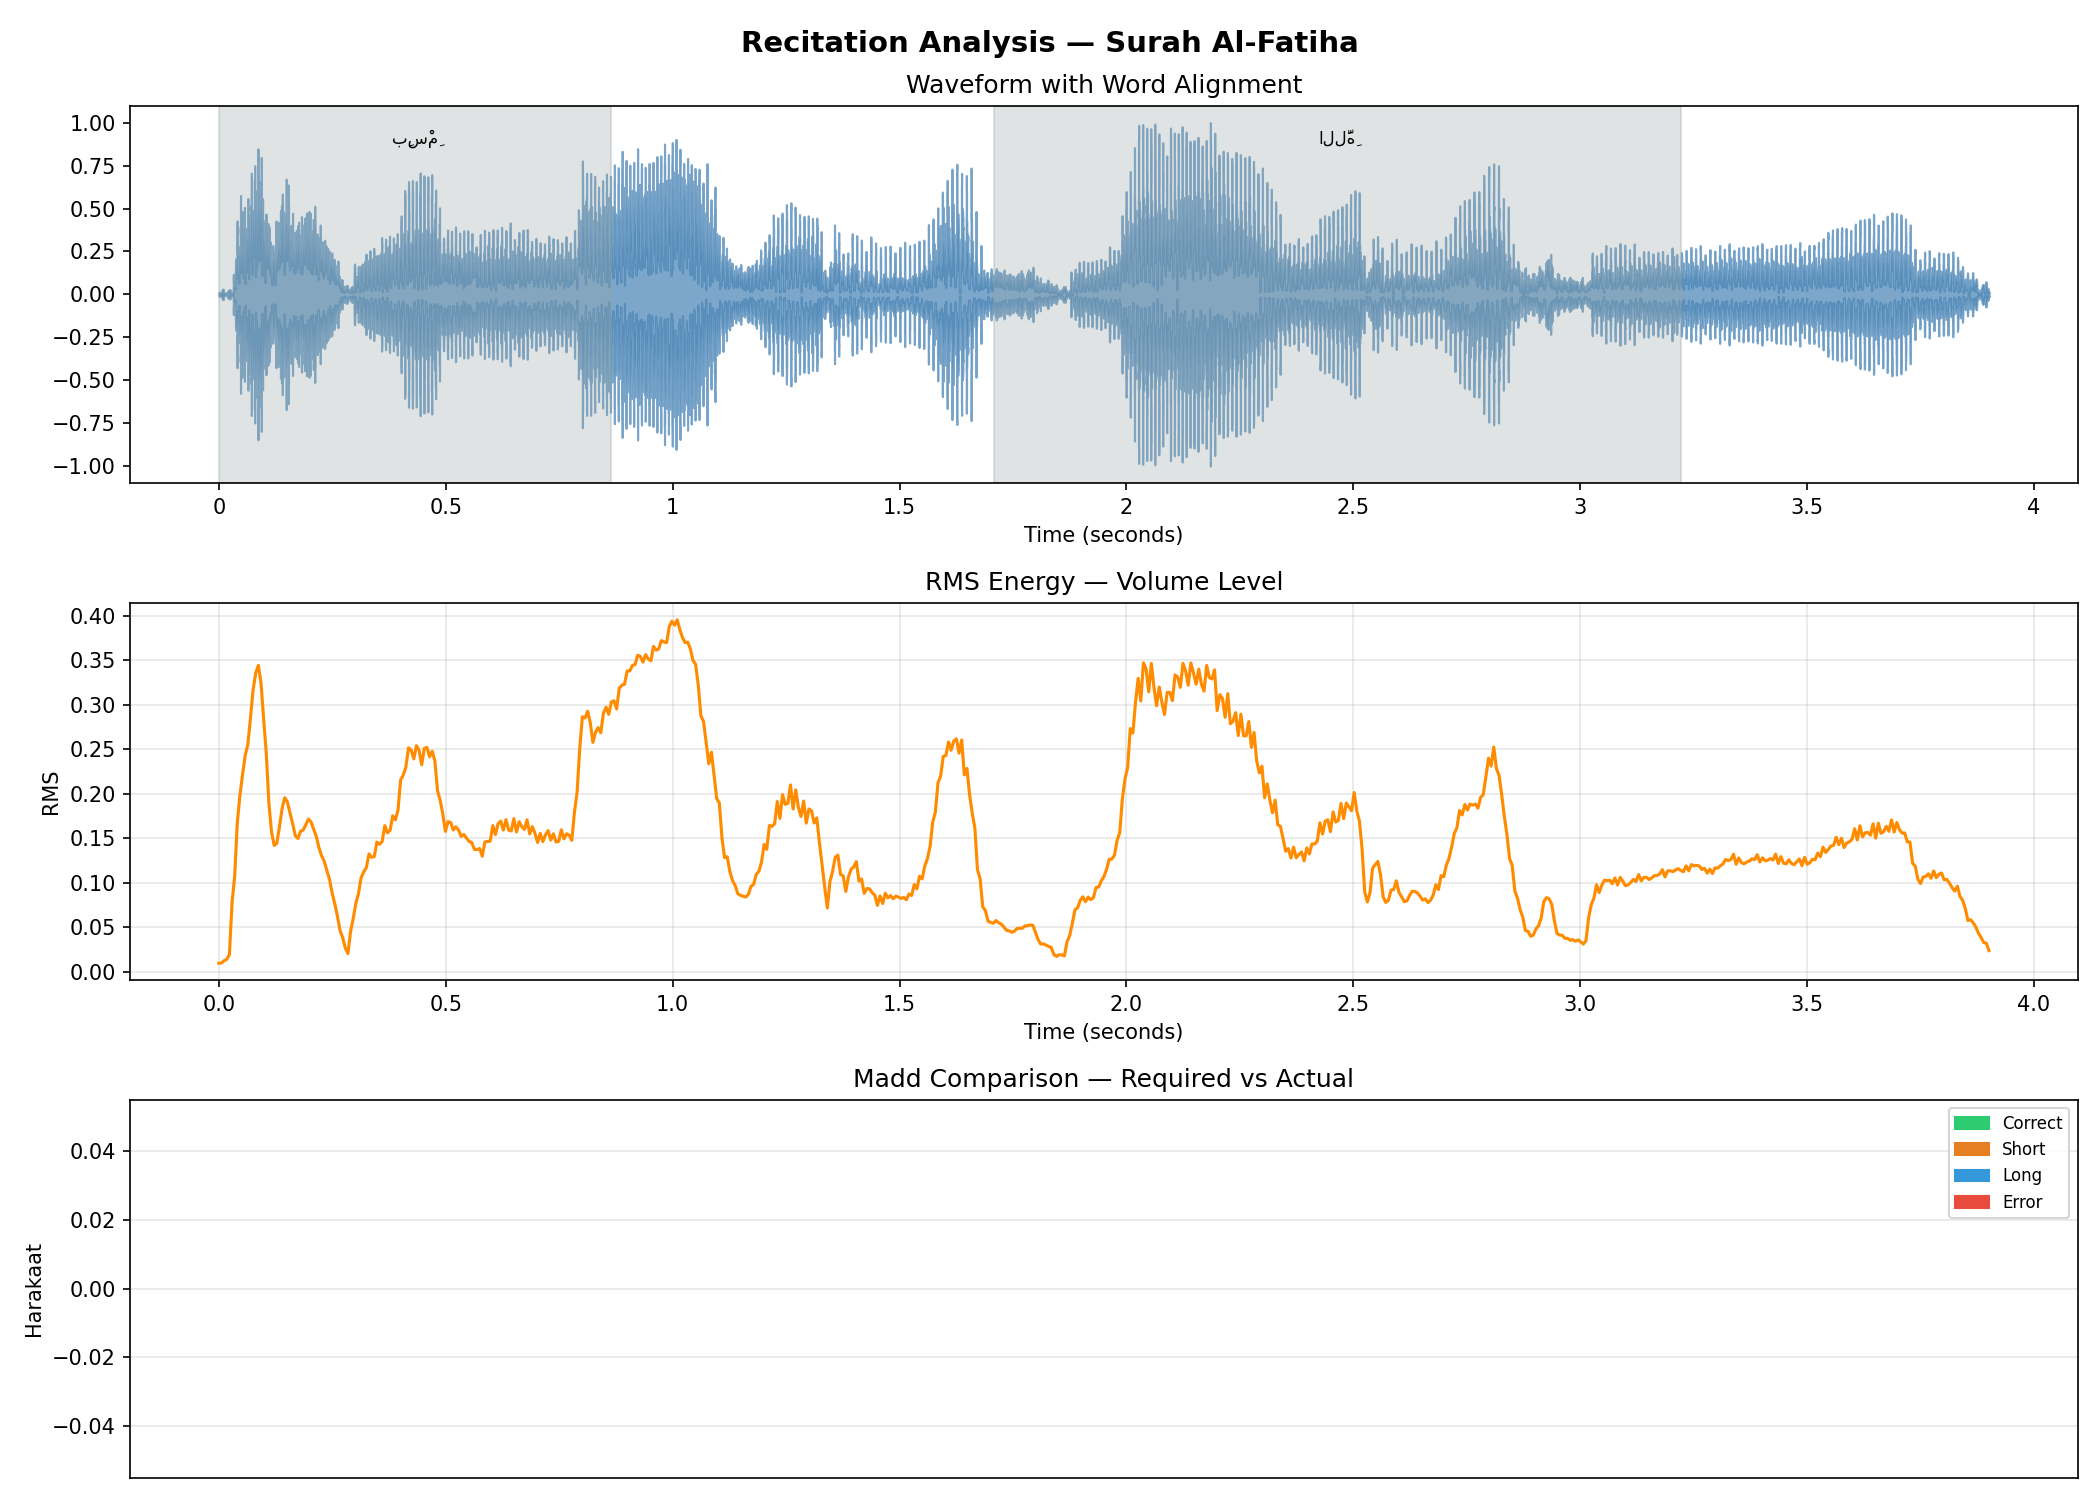
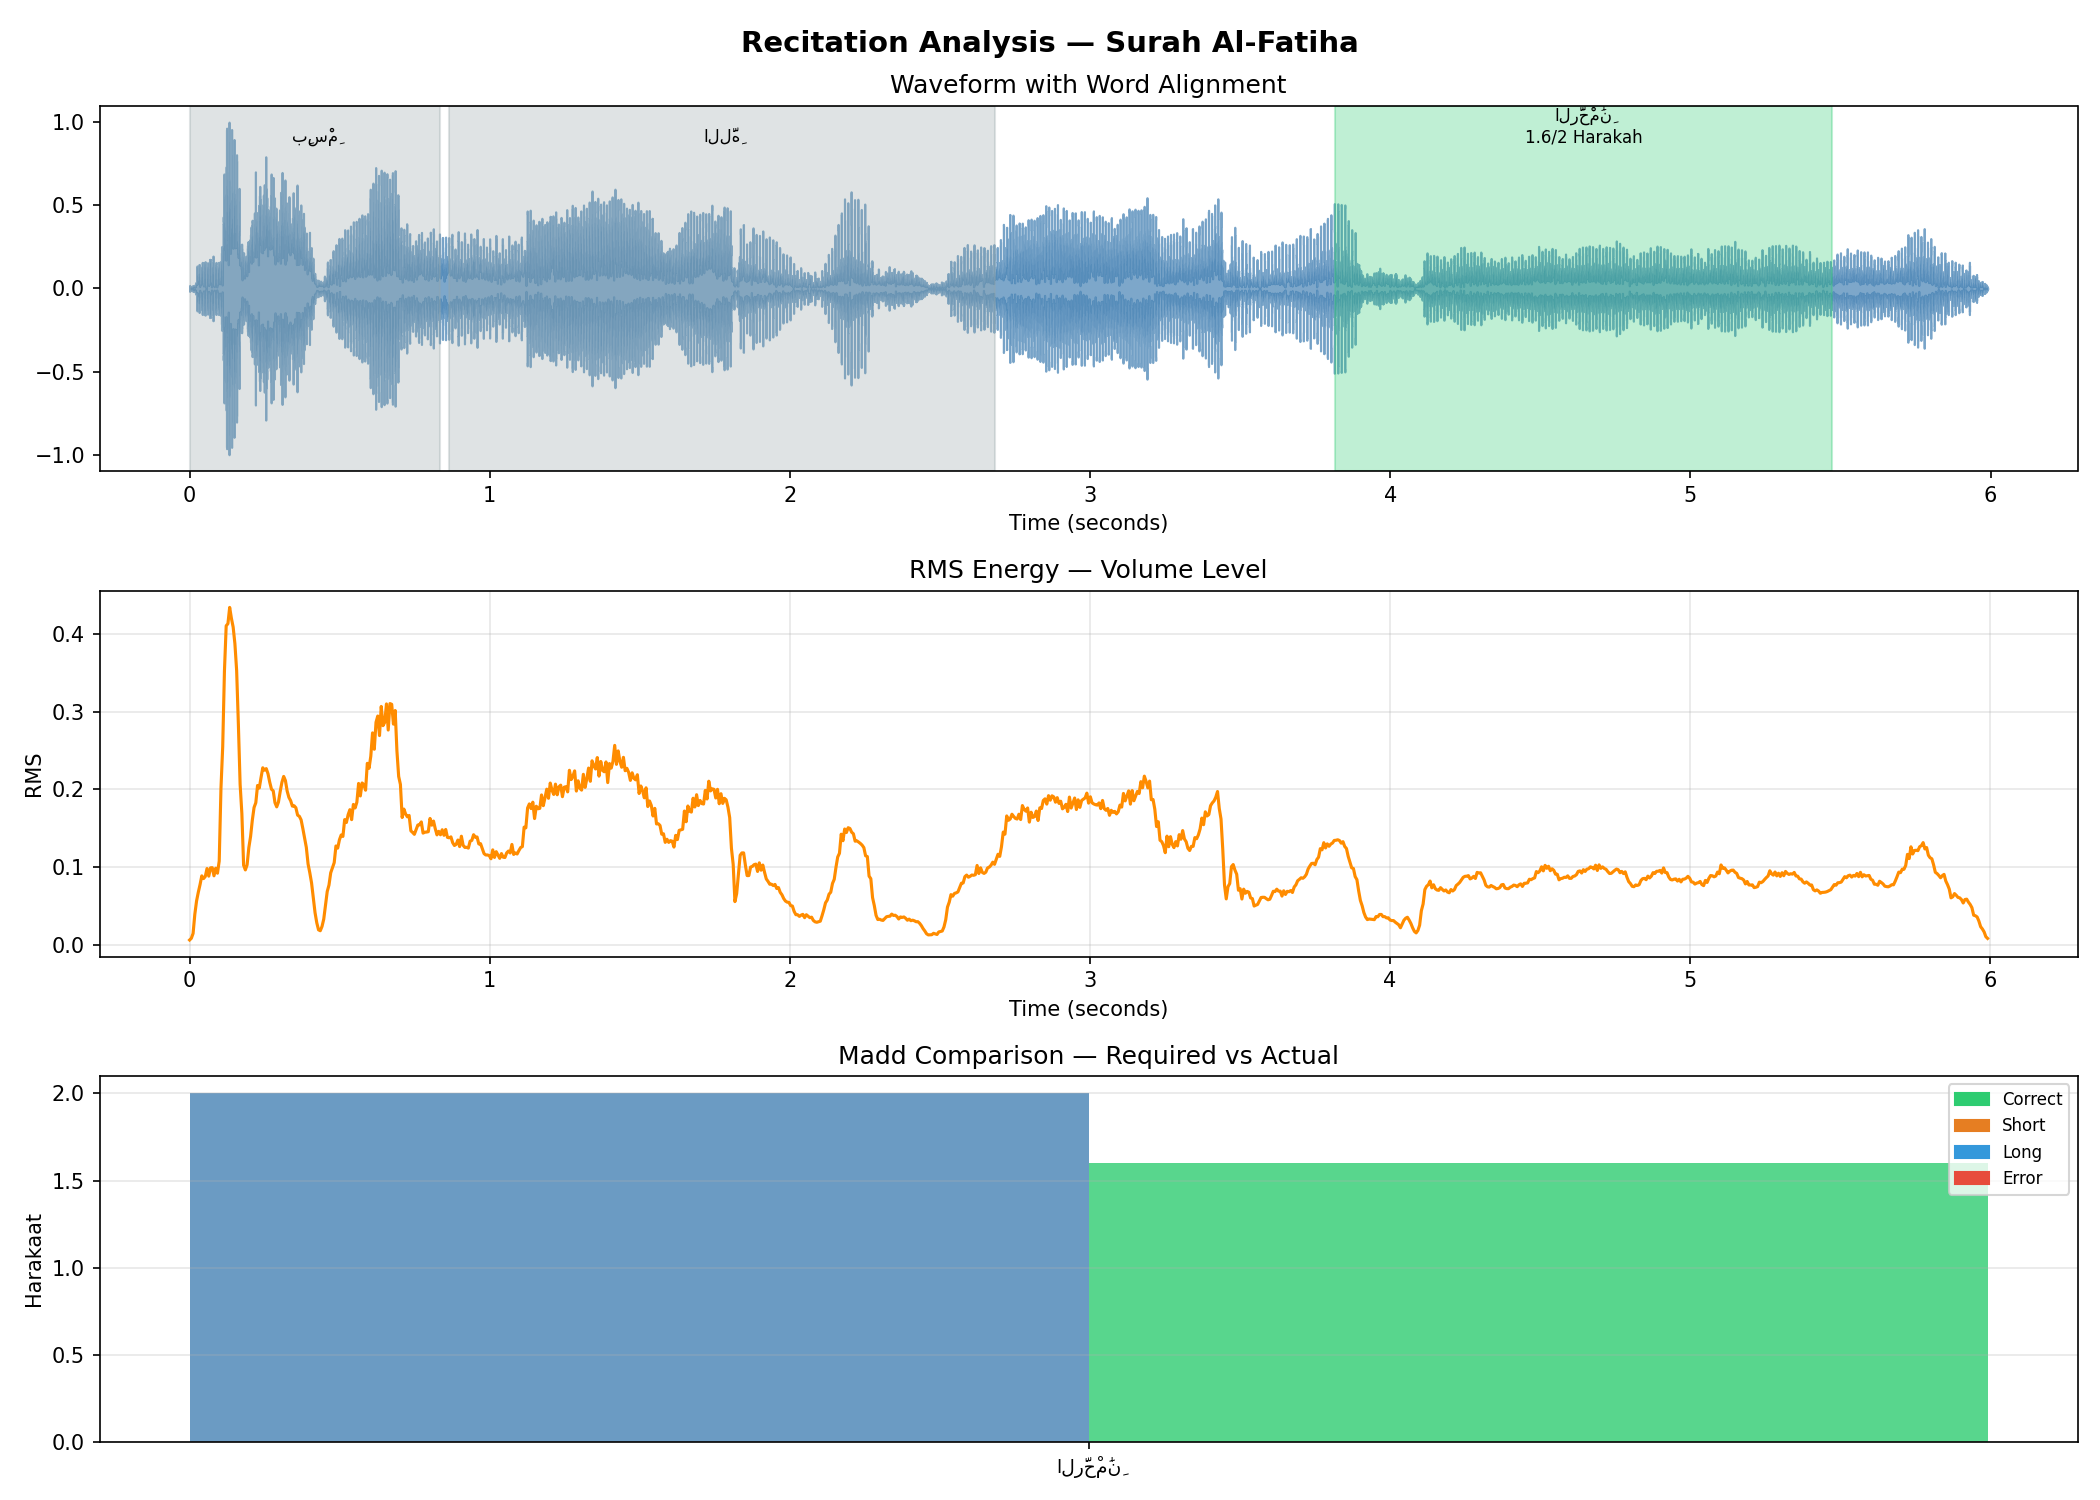
reorganize project structure into core, analysis, and visualization modules and update import paths

diff --git a/main.py b/main.py
@@ -3,10 +3,10 @@ import numpy as np
 import json
 import os
 import argparse
-from src.audio_processor import AudioProcessor
-from src.DTWAligner import DTWAligner
-from src.core.madd_analyzer  import MaddAnalyzer
-from src.visualizer     import Visualizer
+from src.core.audio_processor import AudioProcessor
+from src.core.DTWAligner import DTWAligner
+from src.analysis.madd_analyzer import MaddAnalyzer
+from src.visualization.visualizer import Visualizer
 from config.settings import settings
 
 def load_word_references(words_dir, word_list):
@@ -39,7 +39,7 @@ def run_poc(user_audio_path, ayah_data, words_dir):
     os.makedirs('output', exist_ok=True)
     
     processor  = AudioProcessor()
-    DTWAligner    = DTWAligner()
+    aligner    = DTWAligner()
     analyzer   = MaddAnalyzer()
     visualizer = Visualizer(sr=settings.audio.sample_rate)
     
@@ -62,7 +62,7 @@ def run_poc(user_audio_path, ayah_data, words_dir):
     
     # 3. Word alignment
     print("\n3. Aligning words...")
-    alignment_results = DTWAligner.align_sequence(
+    alignment_results = aligner.align_sequence(
         user_audio,
         references
     )

diff --git a/tests/quick_test.py b/tests/quick_test.py
@@ -1,12 +1,17 @@
-# quick_test.py
+import os
+import sys
 import librosa
 import numpy as np
-from src.DTWAligner import DTWAligner
+
+# Add the project root to sys.path
+sys.path.append(os.path.abspath(os.path.join(os.path.dirname(__file__), '..')))
+
+from src.core.DTWAligner import DTWAligner
 
 DTWAligner = DTWAligner()
 
-# تحميل الصوتين
-user, sr  = librosa.load("audio/user/test1.wav", sr=22050, mono=True)
+# load the reference and user audio files
+user, sr  = librosa.load("audio/user/test2.wav", sr=22050, mono=True)
 ref_bismi, _ = librosa.load(
     "audio/reference/words/001_001_001.mp3", 
     sr=22050, mono=True

diff --git a/tests/debug.py b/tests/debug.py
@@ -1,6 +1,10 @@
-# debug.py
+import os
+import sys
 import librosa
 import numpy as np
+
+# Add the project root to sys.path
+sys.path.append(os.path.abspath(os.path.join(os.path.dirname(__file__), '..')))
 
 def debug_audio(user_path, ref_dir):
     
@@ -55,6 +59,6 @@ def debug_audio(user_path, ref_dir):
 
 if __name__ == "__main__":
     debug_audio(
-        user_path="audio/user/test.wav",
+        user_path="audio/user/test1.wav",
         ref_dir="audio/reference/words"
     )

diff --git a/src/core/DTWAligner.py b/src/core/DTWAligner.py
@@ -1,4 +1,4 @@
-# src/DTWAligner.py
+# src/core/DTWAligner.py
 import librosa
 import numpy as np
 from dtaidistance import dtw

diff --git a/README.md b/README.md
@@ -48,28 +48,27 @@ It bridges **Islamic studies** with **modern signal processing and AI techniques
 ```
 quran_tajweed_poc/
 ├── audio/
-│   ├── reference/           # Reference recordings for comparison
-│   │   ├── words/          # Isolated word recordings
-│   │   │   ├── bismi.wav
-│   │   │   ├── allah.wav
-│   │   │   ├── alrahman.wav
-│   │   │   └── alraheem.wav
-│   │   └── full/           # Full Ayah (verse) recordings
-│   │       └── fatiha.wav
-│   └── user/               # User recordings to analyze
-│       └── test.wav
 ├── data/
-│   └── fatiha_madood.json  # Metadata: word timings, Madd rules, etc.
 ├── src/
-│   ├── audio_processor.py  # Audio loading, preprocessing, cleaning
-│   ├── DTWAligner.py          # Word alignment between user and reference audio
-│   ├── madd_analyzer.py    # Tajweed Madd rule detection and analysis
-│   ├── audio_aligner.py    # Additional alignment utilities
-│   ├── onset_detector.py   # Sound onset detection
-│   └── visualizer.py       # Generate visualizations of analysis results
-├── main.py                 # Main entry point for the POC
-├── structure.md            # Project structure documentation
-└── .gitignore              # Git ignore rules (excludes audio files)
+│   ├── core/
+│   │   ├── audio_processor.py
+│   │   ├── DTWAligner.py
+│   │   └── onset_detector.py
+│   ├── analysis/
+│   │   └── madd_analyzer.py
+│   ├── visualization/
+│   │   └── visualizer.py
+├── tests/
+│   ├── debug.py
+│   └── quick_test.py
+├── scripts/
+│   └── verify_files.py
+├── output/
+├── config/
+│   └── settings.py
+├── main.py
+├── structure.md
+└── .gitignore
 ```
 
 ## 🔧 Technology Stack
@@ -192,25 +191,25 @@ Output (Graphs, JSON results)
 
 ## 📝 Core Modules
 
-### `audio_processor.py`
+### `src/core/audio_processor.py`
 
 - `AudioProcessor` class for loading, cleaning, and preprocessing audio
 - Noise reduction, normalization
 - Feature extraction (spectrograms, MFCCs)
 
-### `DTWAligner.py`
+### `src/core/DTWAligner.py`
 
 - `WordAligner` class for aligning user audio with reference recordings
 - Uses DTW (Dynamic Time Warping) for time-series matching
 - Handles variable speech rates
 
-### `madd_analyzer.py`
+### `src/analysis/madd_analyzer.py`
 
 - `MaddAnalyzer` class for detecting Tajweed Madd rules
 - Analyzes vowel elongation patterns
 - Compares user performance against reference
 
-### `visualizer.py`
+### `src/visualization/visualizer.py`
 
 - `Visualizer` class for creating visual feedback
 - Waveform plots, spectrograms, alignment visualizations

diff --git a/structure.md b/structure.md
@@ -2,25 +2,29 @@ quran_tajweed_poc/
 ├── audio/
 ├── data/
 ├── src/
-│ ├── core/
-│ │ ├── audio_processor.py
-│ │ ├── DTWAligner.py
-│ │ └── onset_detector.py
-│ │
-│ ├── analysis/
-│ │ └── madd_analyzer.py
-│ │
-│ ├── visualization/
-│ │ └── visualizer.py
-│ │
-│ └── utils/
+│   ├── core/
+│   │   ├── audio_processor.py
+│   │   ├── DTWAligner.py
+│   │   └── onset_detector.py
+│   ├── analysis/
+│   │   └── madd_analyzer.py
+│   ├── visualization/
+│   │   └── visualizer.py
+│   └── tools/
+│
+├── tests/
+│   ├── debug.py
+│   └── quick_test.py
+├── scripts/
+│   └── verify_files.py
 │
 ├── output/
 ├── config/
-│ └── settings.py
+│   └── settings.py
 │
 ├── main.py
 ├── LICENSE
 ├── DATA_POLICY.md
 ├── DISCLAIMER.md
 ├── README.md
+
